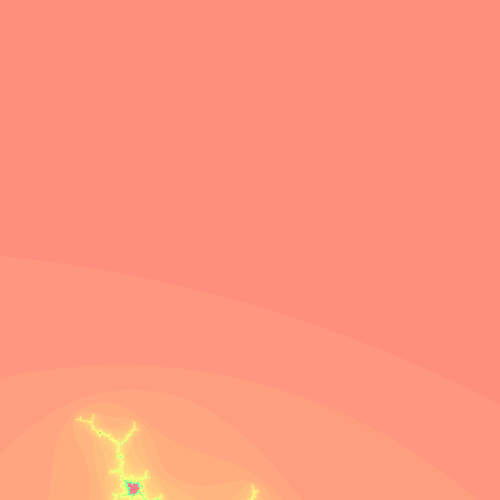
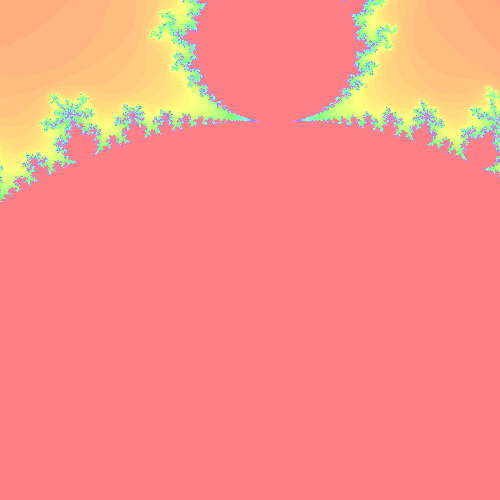
only concatenate zoom remains to do

diff --git a/select5.py b/select5.py
@@ -27,6 +27,14 @@ from ruler0 import Ruler
 X,Y = Ruler.X,Ruler.Y
 zX,zY = Ruler.zX,Ruler.zY
 
+def show_image_file(dp,label,win):  # from label symbol
+	file_name = Select.file_stub+str(dp) + '.png'
+	if label=='X':
+		in_window(X/2,Y/2,file_name,win)
+	elif label=='Z':
+		in_window(-0.5,0,file_name,win)
+
+
 class Select(Ruler):
 	file_stub = 'images/hsb'
 	
@@ -70,25 +78,17 @@ class Select(Ruler):
 				#  Point(x,y).draw(self.parent.woX.win) 
 		self.save_show()
 
-	def save_show(self,dp):
+	def save_show_windows(self,dp):
 		self.file_name = Select.file_stub+str(dp) + '.png'
 		if not hasattr(self,'image'): print('no image')
 		else:
 			self.image.save(self.file_name)
 			in_window(X/2,Y/2,self.file_name,self.parent.woX.win)
-		
-	def show_image_file(self,dp,label):  # from label symbol
-		self.file_name = Select.file_stub+str(dp) + '.png'
-		if label=='X':
-			in_window(X/2,Y/2,self.file_name,self.parent.woX.win)
-		elif label=='Z':
 			in_window(-0.5,0,self.file_name,self.parent.woZ.win)
-
+		
 	def select(self):
 		"""select box region with cursor  Confirm with ==> button"""
 		print(myself())
-		# self.parent.bt.draw()
-		# self.parent.bt.activate()
 		bx = Circle(Point(0,0),1).draw(self.parent.woX.win)  #dummy for undraw
 		bx_drawn = False   	  				 # dummy drawn
 		while True:
@@ -99,10 +99,10 @@ class Select(Ruler):
 			bx.undraw()
 			bx = rec_draw(self.xsel,self.parent.woX.win)
 			bx_drawn = True
+		# minimum coord corner of xsel
 		xdr = Select.xside2/20  # xside/10 = diameter
 		Circle(Point(self.xsel[0],self.xsel[1]),5).draw(self.parent.woX.win).setFill('darkgray')
-		self.parent.bt.undraw
-		self.parent.bt.deactivate
+	
 
 	def draw_selection(self,trxz):
 		"""draw selected region using transform and iteration"""
@@ -127,17 +127,19 @@ class Select(Ruler):
 		print('')
 
 	def get_zsel(self,dp):
-		xsel = self.xsel
+		if not hasattr(self,'zsel'):
+			self.zsel = Ruler.gzbox
+		self.trxz = Transform(X,Y,*self.zsel)
+
+		self.trxz = Transform(X,Y,*Ruler.gzbox)
+
 		xdr = Select.xside2/20 
-		if dp==0: 
-			self.trxz = Transform(X,Y,*Ruler.gzbox)
-			zsel = self.zsel = self.trxz.world(xsel[0],xsel[1]) + self.trxz.world(xsel[2],xsel[3])
-			rec_draw(self.zsel,self.parent.woZ.win)
-		else:
-			self.trxz = Transform(X,Y,*self.zsel)
-			zsel = self.zsel = self.trxz.world(xsel[0],xsel[1]) + self.trxz.world(xsel[2],xsel[3])
-			rec_draw(self.zsel,self.parent.woZ.win)
 		zdr = self.trxz.xscale*2*xdr  # xdr * zxscale
+
+		xsel = self.xsel
+		zsel = self.zsel = self.trxz.world(xsel[0],xsel[1]) + self.trxz.world(xsel[2],xsel[3])
+
+		rec_draw(self.zsel,self.parent.woZ.win)
 		Circle(Point(zsel[0],zsel[1]),zdr).draw(self.parent.woZ.win).setFill('darkgray')
 
 		# use in draw_selection
@@ -171,7 +173,7 @@ class Select(Ruler):
 		if hasattr(self,'trxz'):
 			print('trxz',self.trxz)
 
-	def selection_sequence(self,dp,cx,cy):
+	def selection_sequencex(self,dp,cx,cy):
 		xside2 = Select.xside2
 		ss = self.parent
 		if dp==0:
@@ -198,13 +200,13 @@ class SelectSeries(Ruler):
 		Circle(Point(0,0),3*X/50).draw(self.woX.win).setFill('darkgray')
 		Circle(Point(-2,-1.5),3*zX/50).draw(self.woZ.win).setFill('darkgray')
 
-
 	def init_button(self,win):
 		win = self.woX.win
 		self.bt = Button(win, Point( 460, 480), 70,30,'==>')
 		self.bt.label.setSize(24)
-		# self.bt.draw()
-		# self.bt.activate()
+		self.bt.draw()
+		self.bt.activate()
+
 
 	def draw_whole(self):
 		sl = Select(self,0)
@@ -216,12 +218,10 @@ class SelectSeries(Ruler):
 		self.trxz = Transform(X,Y,*Ruler.gzbox)  # used for draw selection
 		sl.print_stats()
 
-		sl.parent.woX.win.getMouse()
+		# sl.parent.woX.win.getMouse()
 		sl.draw_selection(self.trxz)
 
-		sl.parent.woX.win.getMouse()
-
-	def sequence_click_select(self):
+	def sequence_click_selectx(self):
 		"""implement states 0 and 1"""
 		for dp in range(2):
 			s = Select(self,dp)
@@ -230,7 +230,6 @@ class SelectSeries(Ruler):
 			self.selection_sequence(dp,cx,cy)
 
 			rec_draw(s.xsel,self.parent.woX.win)
-			rec_draw(s.zsel,s.parent.woZ.win).setOutline('blue')
 
 			self.print_stats()
 			self.trxz = Transform(X,Y,*self.zsel)  # used for draw selection
@@ -239,41 +238,44 @@ class SelectSeries(Ruler):
 			s.draw_selection(dp,self.trxz)
 
 	def select_series(self,dp):
-		s = Select(self,dp)   # self is selseries id
-		s.file_name = Select.file_stub+str(dp)+'.png'
-		print('select series',s.file_name)
-		s.save_show(dp) 
-		Circle(Point(0,0),3*X/50).draw(self.woX.win).setFill('blue')
-		s.parent.bt.draw()
-		s.parent.bt.activate()
+		# might use dp to start at arbitrary depth
+		self.init_windows()
+		self.init_button(self.woX.win)
+		
 		while True:
-			s.select()
+			s = Select(self,dp)   # s is state, self is parent/select_series
+			s.select()  # select region by center
 			grid((-3,-3,3,3),s.parent.woZ.win,1)
+
 			s.get_zsel(dp)
 			rec_draw(s.zsel,s.parent.woZ.win) 
-			s.print_stats()
-			s.draw_selection(s.trxz)
 
+			s.print_stats()
+
+			s.draw_selection(s.trxz)  
 			dp += 1			 
 			s.file_name = Select.file_stub+str(dp)+'.png'
-			s.save_show(dp) 
-			Circle(Point(0,0),3*X/50).draw(self.woX.win).setFill('blue')
-			s.parent.bt.draw()
-			s.parent.bt.activate()
+			s.save_show_windows(dp) 
+			Circle(Point(0,0),3*X/50).draw(self.woX.win).setFill('darkgray')
+
+			self.bt.undraw()
+			self.bt.draw()  ## error
+			self.bt.activate()
+
+
+
+			s.print_stats()   #Transform will be different
 
 if __name__ == "__main__":
 	def draw_state0():
 		ss = SelectSeries()
 		ss.draw_whole()
+		show_image_file(0,'X',ss.woX.win)
+		show_image_file(0,'Z',ss.woZ.win)
+		ss.woX.win.getMouse()
+
 	# draw_state0()
 
-	def driver2():
-		ss = SelectSeries()
-		ss.init_windows()
-		ss.sequence_click_select()
-
-		s.wo.win.getMouse
-	# driver2()
 
 	def zoom_sequence():
 		ss = SelectSeries()

diff --git a/helpers.py b/helpers.py
@@ -7,21 +7,7 @@ from mygraphics import *
 import colorsys
 
 
-def cont(win, point = (35,15),lable = 'CONTINUE'):	
-	px,py = point
-	xa,ya,xb,yb = X-2,Y-2, X-2*px,Y-2*py
-	r = Rectangle(Point(xa,ya),Point(xb,yb)).draw(win)
-	r.setFill('white')
-	r.setWidth(2)
-	t = Text(Point(X-px,Y-py),lable).draw(win)
-	while True:
-		clk = win.getMouse()
-		cx,cy = clk.x,clk.y
-		if X - cx <= 70 and Y - cy <= 30:
-			t.undraw()
-			r.undraw()
-			break
-	return 
+
 
 def rec_draw(abox,win) :
     xa,ya,xb,yb =  abox
@@ -29,10 +15,19 @@ def rec_draw(abox,win) :
 
 def grid(crnLst,win,u):
 	xa,ya,xb,yb = crnLst
-	for i in range(xa,xb):
-		for j in range(ya,yb):
-			Rectangle(Point(i*u,j*u),Point((i+1)*u,(j+1)*u)).draw(win)
+	for i in range(xa,xb+1,u):
+		for j in range(ya,yb+1,u):
+			Rectangle(Point(i,j),Point(i+u,j+u)).draw(win)
+			# Text(Point(i-0.03*u,j-0.07*u),str(i)+', '+str(j)).draw(win).setSize(18)
+			Text(Point(i+0.15,j-0.07*u),str(i)+', '+str(j)).draw(win).setSize(18)
+
+def gridx(crnLst,win,u):
+	xa,ya,xb,yb = crnLst
+	for i in range(xa,xb,u):
+		for j in range(ya,yb,u):
+			Rectangle(Point(i,j),Point(i+u,j+u)).draw(win)
 			Text(Point(i-0.08,j+0.07),str(i)+','+str(j)).draw(win).setSize(18)
+
 
 def grid_labels(box,win):
 	u = 1/2

diff --git a/window_object.py b/window_object.py
@@ -8,6 +8,7 @@ from graphics import *
 from mygraphics import *
 from helpers import *
 from ruler0 import Ruler
+from helpers import *
 
 X,Y = Ruler.X,Ruler.Y
 
@@ -32,7 +33,7 @@ class WindowObject(Ruler):
 			self.ctpl = Ruler.gscreen
 			self.win.setCoords(*self.ctpl)
 		elif self.label=='Z':
-			self.lctpl = (X,Y,  X + 160, 60)
+			self.lctpl = (X,Y,  2*X + 160, 60)
 			window_location(self.win,*self.lctpl)  # right panel
 			self.ctpl = Ruler.gzbox
 			self.win.setCoords(*self.ctpl)
@@ -43,4 +44,17 @@ class WindowObject(Ruler):
 
 
 if __name__=='__main__':
-	pass
+	"""demo grid for gzbox and gscreen"""
+
+	labels = ['X','C','Z']
+	n = 0
+	for label in labels:
+		wo = WindowObject(label,X,Y)
+		wo.name = 'win' + str(label)
+
+		if n==1: grid((0,0,X,Y),wo.win,100)
+		elif n==2: grid((-3,-3,3,3),wo.win,1)
+
+		n += 1
+
+	wo.win.getMouse()
